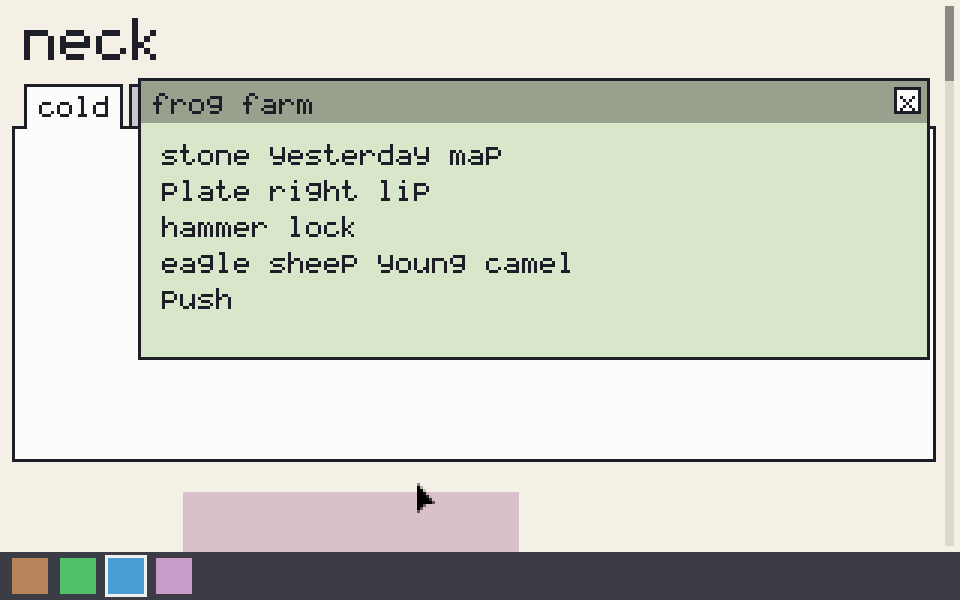
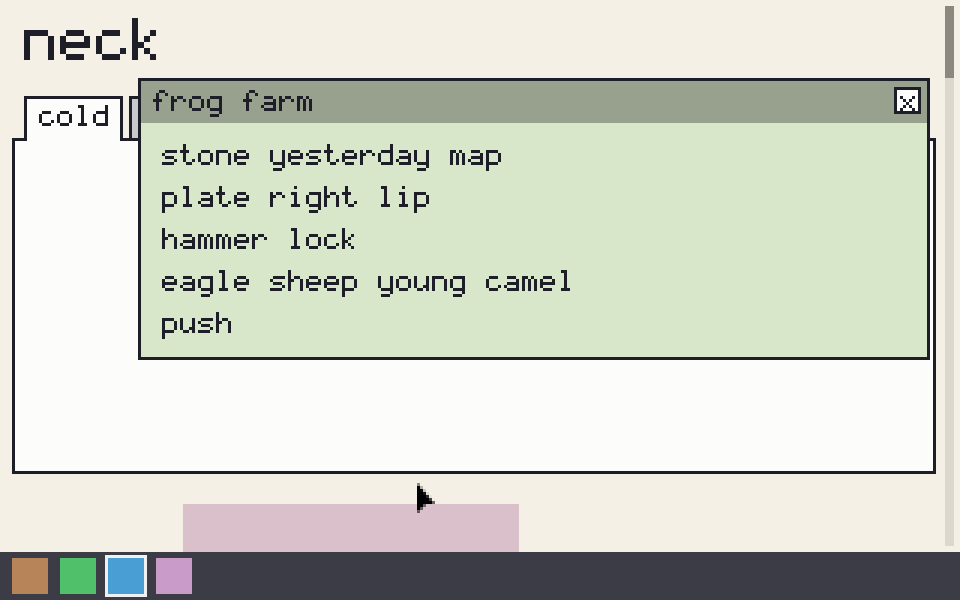
fix(world): real descenders in the font (9-row glyphs); bench --runs; regenerate room shots

diff --git a/packages/world/test/font.test.ts b/packages/world/test/font.test.ts
@@ -1,18 +1,29 @@
 import { describe, it, expect } from "vitest"
 import { createCanvas } from "@napi-rs/canvas"
-import { glyph, textWidth, GLYPH_W, GLYPH_H } from "../src/font"
+import { glyph, textWidth, GLYPH_W, GLYPH_H, GLYPH_BASELINE } from "../src/font"
 import { createGfx, type Context2DLike } from "../src/gfx"
 import { WORDS, validateWords } from "../src/words"
 import { hashSeed } from "../src/rng"
 
 describe("font", () => {
-  it("has 7-row 5-bit glyphs for the supported charset", () => {
+  it("has GLYPH_H-row 5-bit glyphs for the supported charset", () => {
     const chars = "abcdefghijklmnopqrstuvwxyzABCDEFGHIJKLMNOPQRSTUVWXYZ0123456789.,!?'-:<>x "
     for (const ch of chars) {
       const g = glyph(ch)
       expect(g, ch).not.toBeNull()
-      expect(g!.length).toBe(7)
+      expect(g!.length).toBe(GLYPH_H)
       for (const row of g!) expect(row).toBeLessThan(32)
+    }
+  })
+  it("p, y, g, q, j have tails below the baseline; no other glyph uses the descender rows", () => {
+    expect(GLYPH_H).toBeGreaterThan(GLYPH_BASELINE)
+    const below = (ch: string) => glyph(ch)!.slice(GLYPH_BASELINE).some(r => r !== 0)
+    for (const ch of "pygqj") expect(below(ch), ch).toBe(true)
+    for (const ch of "abcdefhiklmnorstuvwxzABCDEFGHIJKLMNOPQRSTUVWXYZ0123456789.,!?'-:<>") expect(below(ch), ch).toBe(false)
+  })
+  it("g differs from 9, y from Y, p from P, q from 9 (masks)", () => {
+    for (const [a, b] of [["g", "9"], ["y", "Y"], ["p", "P"], ["q", "9"], ["j", "J"]] as const) {
+      expect(glyph(a), `${a}/${b}`).not.toEqual(glyph(b))
     }
   })
   it("returns null for unsupported chars", () => expect(glyph("é")).toBeNull())
@@ -26,6 +37,7 @@ describe("font", () => {
     ctx.fillStyle = "rgb(255,255,255)"
     ctx.fillRect(0, 0, 10, 10)
     createGfx(ctx).text("A", 0, 0, "rgb(0,0,0)")
+    expect(glyph("A")!.slice(0, 7)).toEqual([0b01110, 0b10001, 0b10001, 0b11111, 0b10001, 0b10001, 0b10001])
     const d = ctx.getImageData(0, 0, 10, 10).data
     const mask = glyph("A")!
     for (let y = 0; y < 10; y++) for (let x = 0; x < 10; x++) {
@@ -41,7 +53,7 @@ describe("font", () => {
     createGfx(ctx).text("é", 0, 0, "rgb(0,0,0)")
     const d = ctx.getImageData(0, 0, 10, 10).data
     const px = (x: number, y: number) => d[(y * 10 + x) * 4]
-    expect(px(0, 0)).toBe(0); expect(px(4, 6)).toBe(0); expect(px(2, 3)).toBe(255)
+    expect(px(0, 0)).toBe(0); expect(px(4, 6)).toBe(0); expect(px(2, 3)).toBe(255); expect(px(0, 8)).toBe(255)
   })
   it("text sets fillStyle once per call, not once per pixel", () => {
     const c = createCanvas(40, 10)

diff --git a/packages/world/src/font.ts b/packages/world/src/font.ts
@@ -1,6 +1,7 @@
 // 5x7 bitmap font. Text in the world is always pixels from this table, never fillText.
-// Each glyph is 7 rows; each row is a 5-bit mask (bit 4 = leftmost pixel).
-export const GLYPH_W = 5, GLYPH_H = 7, GLYPH_ADVANCE = 6
+// Each glyph is GLYPH_H rows; each row is a 5-bit mask (bit 4 = leftmost pixel).
+// Rows 0-6 sit above the baseline; rows 7-8 hold the tails of p, y, g, q and j.
+export const GLYPH_W = 5, GLYPH_H = 9, GLYPH_BASELINE = 7, GLYPH_ADVANCE = 6
 
 const SRC: Record<string, string> = {
   " ": "...../...../...../...../...../...../.....",
@@ -36,17 +37,17 @@ const SRC: Record<string, string> = {
   d: "....#/....#/.####/#...#/#...#/#...#/.####",
   e: "...../...../.###./#...#/#####/#..../.###.",
   f: "..##./.#..#/.#.../###../.#.../.#.../.#...",
-  g: "...../.####/#...#/#...#/.####/....#/.###.",
+  g: "...../...../.####/#...#/#...#/#...#/.####/....#/.###.",
   h: "#..../#..../#.##./##..#/#...#/#...#/#...#",
   i: "..#../...../.##../..#../..#../..#../.###.",
-  j: "...#./...../..##./...#./...#./#..#./.##..",
+  j: "...#./...../..##./...#./...#./...#./...#./#..#./.##..",
   k: "#..../#..../#..#./#.#../##.../#.#../#..#.",
   l: ".##../..#../..#../..#../..#../..#../.###.",
   m: "...../...../##.#./#.#.#/#.#.#/#.#.#/#.#.#",
   n: "...../...../####./#...#/#...#/#...#/#...#",
   o: "...../...../.###./#...#/#...#/#...#/.###.",
-  p: "...../####./#...#/#...#/####./#..../#....",
-  q: "...../.####/#...#/#...#/.####/....#/....#",
+  p: "...../...../####./#...#/#...#/#...#/####./#..../#....",
+  q: "...../...../.####/#...#/#...#/#...#/.####/....#/....#",
   r: "...../...../#.##./##..#/#..../#..../#....",
   s: "...../...../.####/#..../.###./....#/####.",
   t: ".#.../.#.../###../.#.../.#.../.#..#/..##.",
@@ -54,7 +55,7 @@ const SRC: Record<string, string> = {
   v: "...../...../#...#/#...#/#...#/.#.#./..#..",
   w: "...../...../#...#/#...#/#.#.#/#.#.#/.#.#.",
   x: "...../...../#...#/.#.#./..#../.#.#./#...#",
-  y: "...../#...#/#...#/#...#/.####/....#/.###.",
+  y: "...../...../#...#/#...#/#...#/#...#/.####/....#/.###.",
   z: "...../...../#####/...#./..#../.#.../#####",
   0: ".###./#...#/#..##/#.#.#/##..#/#...#/.###.",
   1: "..#../.##../..#../..#../..#../..#../.###.",
@@ -80,6 +81,7 @@ const SRC: Record<string, string> = {
 const GLYPHS: Record<string, readonly number[]> = {}
 for (const [ch, src] of Object.entries(SRC)) {
   const rows = src.split("/")
+  while (rows.length < GLYPH_H) rows.push(".....") // blank descender rows
   GLYPHS[ch] = rows.map(r => parseInt(r.replace(/#/g, "1").replace(/\./g, "0"), 2))
 }
 

diff --git a/packages/world/src/rooms/hideseek.ts b/packages/world/src/rooms/hideseek.ts
@@ -279,7 +279,7 @@ export const hideseekRoom: RoomFactory = (seed, words) => {
           g.rect(t.x, ty, t.w, HS_TAB_H + (on ? 1 : 0), INK)
           const face = on ? [252, 252, 250] : [200, 200, 205]
           g.rect(t.x + 1, ty + 1, t.w - 2, HS_TAB_H - 1 + (on ? 1 : 0), hovered === t.id ? rgb(lighten(face)) : on ? PANEL : TAB_OFF)
-          g.text(t.label, t.x + 5, ty + 4, INK)
+          g.text(t.label, t.x + 5, ty + 3, INK)
         }
       }
       for (const s of h.sections) {
@@ -289,7 +289,7 @@ export const hideseekRoom: RoomFactory = (seed, words) => {
         g.rect(LEFT, y, RIGHT - LEFT, HS_HEADER_H, rgb(darken(s.color)))
         g.rect(LEFT + 1, y + 1, RIGHT - LEFT - 2, HS_HEADER_H - 2, rgb(hovered === s.id ? lighten(s.color) : s.color))
         drawPlus(g, LEFT + 5, y + 4, !collapsed.has(s.id))
-        g.text(s.title, LEFT + 18, y + 4, INK)
+        g.text(s.title, LEFT + 18, y + 3, INK)
       }
       for (const [id, iy] of flow.items) {
         const it = byId.get(id)!
@@ -305,7 +305,7 @@ export const hideseekRoom: RoomFactory = (seed, words) => {
         g.rect(popup.x, popup.y, popup.w, popup.h, INK)
         g.rect(popup.x + 1, popup.y + 1, popup.w - 2, popup.h - 2, rgb(popup.color))
         g.rect(popup.x + 1, popup.y + 1, popup.w - 2, 14, rgb(darken(popup.color)))
-        g.text(popup.title, popup.x + 5, popup.y + 5, INK)
+        g.text(popup.title, popup.x + 5, popup.y + 4, INK)
         popup.lines.forEach((l, i) => g.text(l, popup.x + 8, popup.y + 22 + i * (LINE_H + 5), INK))
         g.rect(close.x, close.y, close.w, close.h, INK)
         g.rect(close.x + 1, close.y + 1, close.w - 2, close.h - 2, hovered === "popup-close" ? "rgb(255,190,190)" : PANEL)

diff --git a/packages/world/src/rooms/toys.ts b/packages/world/src/rooms/toys.ts
@@ -149,10 +149,10 @@ export const toysRoom: RoomFactory = (seed, words) => {
           g.rect(x + (down ? 1 : 0), y + (down ? 1 : 0), w.w - 1, w.h - 1, down ? INK : WHITE)
           g.rect(x + 1, y + 1, w.w - 2, w.h - 2, rgb(face))
           const o = down ? 1 : 0
-          g.text(w.label!, x + 4 + o, y + 5 + o, INK)
+          g.text(w.label!, x + 4 + o, y + 4 + o, INK)
           const n = Math.min(99, counts.get(w.id) ?? 0)
           g.rect(x + w.w - 16 + o, y + 3 + o, 13, 12, WHITE)
-          g.text(String(n), x + w.w - 14 + o, y + 5 + o, INK)
+          g.text(String(n), x + w.w - 14 + o, y + 4 + o, INK)
         } else if (w.kind === "toggle") {
           const isOn = on.has(w.id)
           const track = isOn ? [60, 170, 90] : [140, 140, 150]

diff --git a/packages/world/src/gfx.ts b/packages/world/src/gfx.ts
@@ -26,7 +26,7 @@ export interface Gfx {
   clip(x: number, y: number, w: number, h: number, draw: () => void): void
 }
 
-const BOX = [0b11111, 0b10001, 0b10001, 0b10001, 0b10001, 0b10001, 0b11111]
+const BOX = [0b11111, 0b10001, 0b10001, 0b10001, 0b10001, 0b10001, 0b11111, 0, 0]
 
 export function createGfx(ctx: Context2DLike): Gfx {
   const rect = (x: number, y: number, w: number, h: number, color: string) => {

diff --git a/docs/research/2026-10-20-world-render-speed.md b/docs/research/2026-10-20-world-render-speed.md
@@ -3,32 +3,36 @@
 **Date:** 2026-10-20.
 
 ## Summary
-The world draws and reads back one frame in well under a millisecond per step in a real browser worker. The bar was 60 steps per second per room; every room runs at roughly 1,000 to 2,300 steps per second, so 18 to 40 times faster than needed. Nothing needed fixing for speed. The look of each room was checked at 3x: all four are legible and visibly different from each other. One cosmetic limit is noted below (the font's descenders).
+The world draws and reads back one frame in well under a millisecond per step in a real browser worker. The bar was 60 steps per second per room; every room runs at roughly 900 to 2,300 steps per second, so at least 15 times faster than needed even in the worst single run (hideseek, 907/s). Nothing needed fixing for speed. The look of each room was checked at 3x: all four are legible and visibly different from each other. Looking at them did find one real problem, now fixed: the font had no descenders, so p, y and g looked like capitals ("maP"). The glyph cell is now 9 rows tall with real tails.
 
 ## Method
 - `npm run bench:render -w @blanktab/world` serves `packages/world/bench/` with Vite and opens it in Playwright Chromium.
 - A dedicated Worker makes an `OffscreenCanvas(320,200)` and `createWorld({ seed: 1, canvas })`.
 - For each room: `bringToFront`, 30 warm-up steps, then 600 timed iterations of `act(random valid action, seeded rng)` + `observe()` (render, full-frame `getImageData`, 80x50 downsample, 32x32 fovea).
+- The page was served by the Vite dev server (not a production build). `--runs 3` makes `run.mjs` load the page three times and print the median per room.
 - Machine: Apple M4 Mac, Chromium 156.0.8078.4 (headless, Playwright). Another benchmark (WebGPU) was running on the same machine, so numbers are noisy; load average was about 4 to 6. Each figure below is the median of three runs.
 
-## Results (median of 3)
+## Results (final code, median of 3 runs via `--runs 3`)
 ```
-{"room":"crib","msPerStep":0.438,"stepsPerSec":2281.4}
-{"room":"toys","msPerStep":0.514,"stepsPerSec":1946.8}
-{"room":"hideseek","msPerStep":0.91,"stepsPerSec":1098.9}
-{"room":"places","msPerStep":0.711,"stepsPerSec":1406.8}
+{"room":"crib","runs":3,"msPerStep":0.473,"stepsPerSec":2114.2}
+{"room":"toys","runs":3,"msPerStep":0.523,"stepsPerSec":1912}
+{"room":"hideseek","runs":3,"msPerStep":1.006,"stepsPerSec":993.5}
+{"room":"places","runs":3,"msPerStep":0.866,"stepsPerSec":1154.3}
 ```
-All three runs, steps per second (crib / toys / hideseek / places):
+Steps per second in each run (crib / toys / hideseek / places):
 
 | Run | crib | toys | hideseek | places |
 |---|---|---|---|---|
-| 1 | 2281 | 1947 | 1099 | 1155 |
-| 2 | 1866 | 1709 | 1071 | 1407 |
-| 3 | 2655 | 2479 | 1303 | 1434 |
+| 1 | 1686 | 1664 | 907 | 1031 |
+| 2 | 2114 | 1912 | 994 | 1154 |
+| 3 | 2314 | 2037 | 1063 | 1191 |
 
-**Verdict:** target (>= 60 steps/s per room) met in every room, with a margin of at least 17x even in the worst single run (hideseek, 1,071/s).
+Earlier, before the font change, the medians were aggregated by hand from three runs (crib 2281, toys 1947, hideseek 1099, places 1407) plus a fourth run with hideseek at 921/s; those are no longer the headline numbers because the taller glyphs changed the drawing slightly.
+
+**Verdict:** target (>= 60 steps/s per room) met in every room. Worst case seen in any run: hideseek at 907/s, a margin of about 15x.
 
 ## What was fixed
+- Font: descenders added (see above); font tests check the tails and that g/9, y/Y, p/P, q/9, j/J masks differ.
 - Speed: nothing. The suspected costs (one `fillRect` per lit text pixel, area rescans, redrawing static layers every step) are real but cheap at this size; areas are cached and only computed by `state()`, not on the step path. Optimising would only risk the byte-identical pixel output, so it was left alone.
 - Carried from the Places review: the link-word pool is now deduplicated and the room throws a `RangeError` if there are fewer unique words than pages. New tests (seeds 1-50) check that link words are distinct per page and that link boxes lie inside the viewport and do not overlap. Unused imports and variables in `places.test.ts` were removed.
 
@@ -38,4 +42,4 @@ Pictures are in `docs/research/2026-10-20-world-render-speed/` (`crib.png`, `toy
 - **Toys:** a labelled button with a counter field, two sliders with knobs, a toggle, plain coloured blocks and loose words; widgets are recognisable and words are readable.
 - **Hide-and-seek:** a title, tabs, a content panel, a scrollbar, and a pop-up window with a title bar and close box in front; the pop-up is clearly visible.
 - **Places:** a back button, a large title, lines of text and four underlined blue links.
-- **Known cosmetic limit:** the 5x7 font has no room for descenders, so lowercase `p`, `y` and `g` sit one row lower than other letters and can look like capitals at a glance ("map" reads like "maP"). Words stay readable in context. Redesigning the glyphs was left out of this task; it would change pixel output.
+- **Descenders (fixed):** the font cell grew from 7 to 9 rows (baseline after row 7). p, y, g, q and j now have real tails below the baseline, so "map", "king" and "young" read as lowercase. Tab, header, button and pop-up title text moved up one pixel to keep the tails inside their bars. The pictures above were regenerated after this change and checked by eye.
